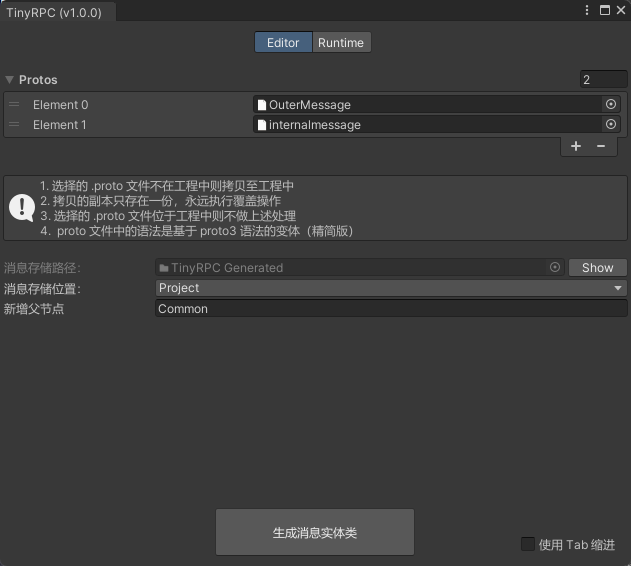
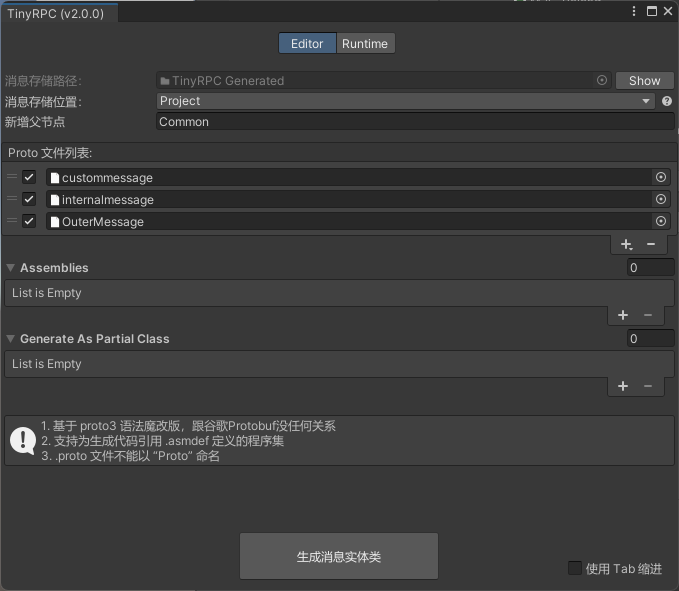
[release] 发布 v2.0

diff --git a/Common/TinyRPC/CHANGELOG.md b/Common/TinyRPC/CHANGELOG.md
@@ -1,0 +1,31 @@
+# Changelog
+
+All notable changes to this project will be documented in this file.
+The format is based on [Keep a Changelog](https://keepachangelog.com/en/1.0.0/)
+
+## [1.0.0] - 2024-05-24
+
+first release 
+
+## [2.0.0] - 2024-07-10
+
+### Fixed
+
+- 解决了切换生成代码存储位置时不能正确触发导入和编译的异常
+
+### Added
+
+* 网络发现新增超时事件
+
+* 将 .proto 文件加入 IDE 资源列表，方便编辑
+
+* 支持将指定 .asmdef 作为生成代码的引用
+
+* 支持指定 Common 消息类型设置为 partial class 而不是默认的 struct
+
+### Changed
+
+- 优化了生成代码存储位置的切换逻辑
+- proto 文件支持直接从设置面板 ReorderableList “+” 按钮新建
+- Ping 消息使用非主线程处理，从代码层面避免了 ping 值虚高的问题
+- proto 文件现在与生成的代码存于同一个 package，方便一处修改多处同步
